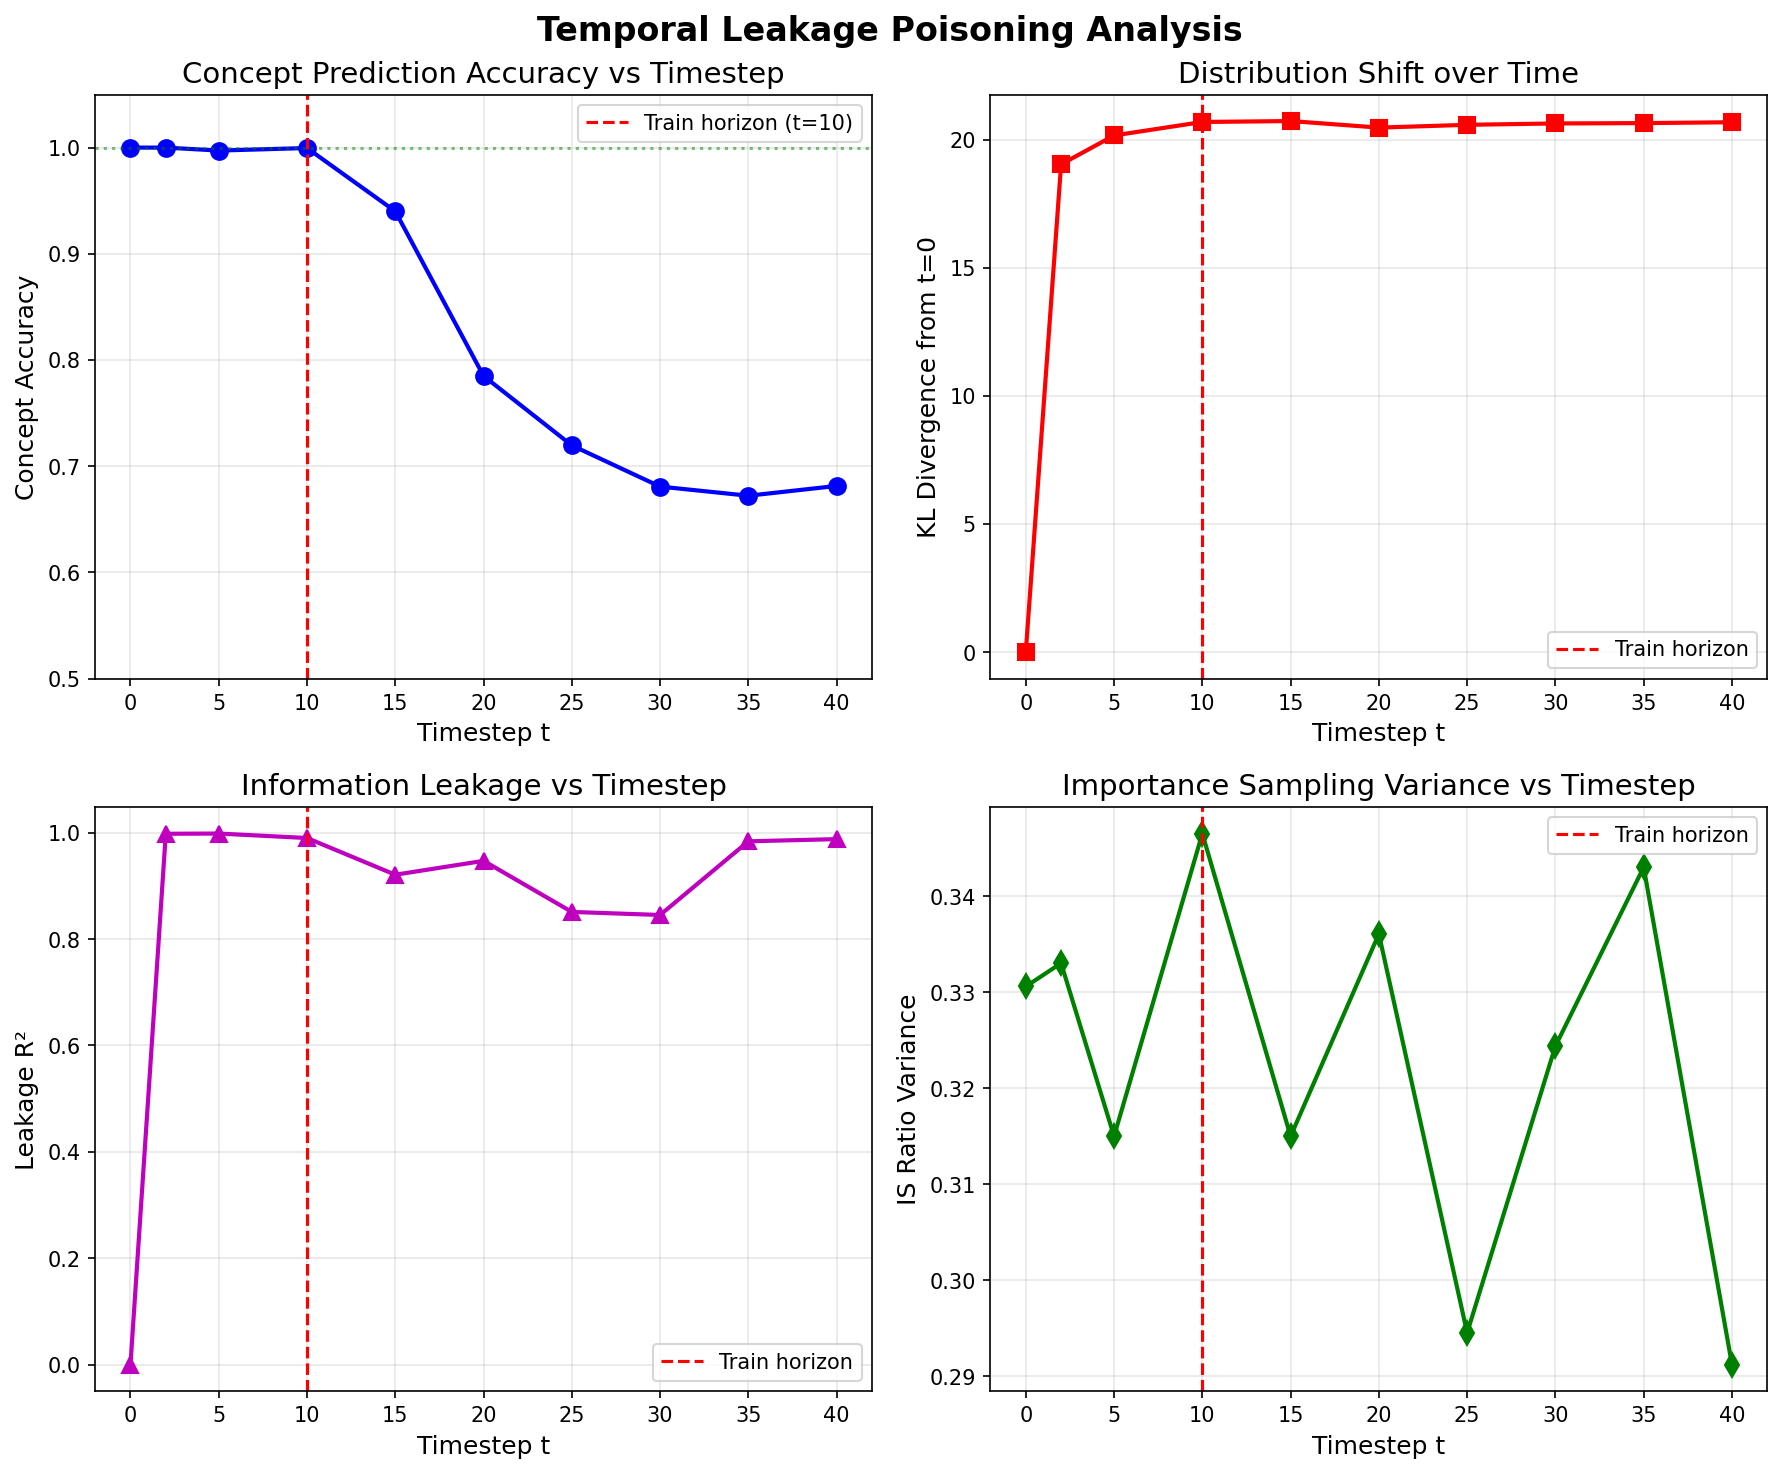
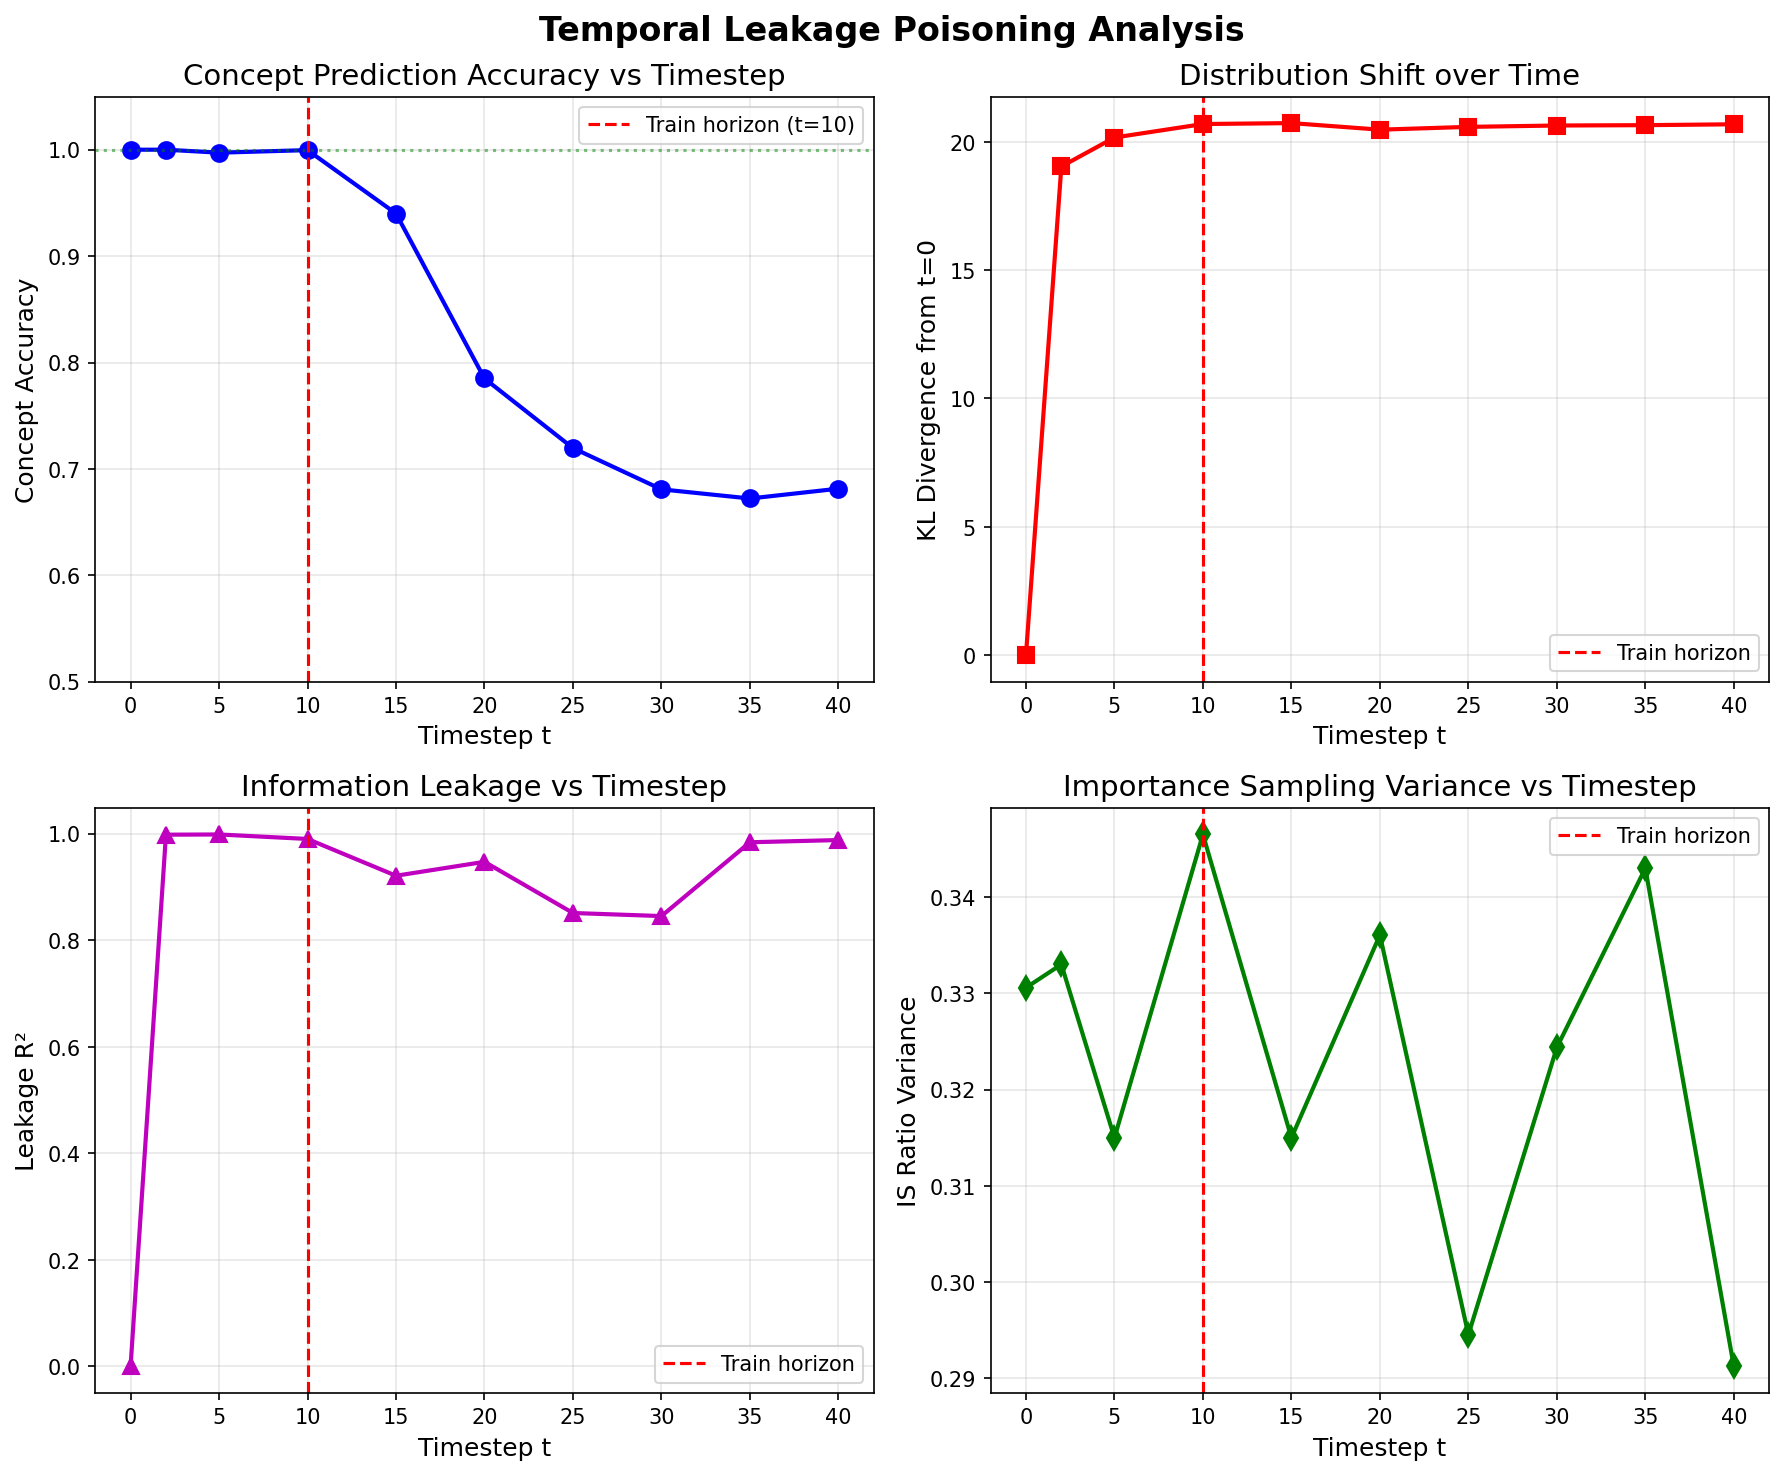
SECOND COMMIT

diff --git a/experiments/plot.py b/experiments/plot.py
@@ -1,0 +1,246 @@
+"""
+Clean Figure Generation for Temporal Leakage Paper
+
+Run: python experiments/plot_figures.py
+"""
+
+import numpy as np
+import matplotlib.pyplot as plt
+import matplotlib.patches as mpatches
+from matplotlib.lines import Line2D
+
+# Use a clean style
+plt.style.use('seaborn-v0_8-whitegrid')
+plt.rcParams['font.family'] = 'serif'
+plt.rcParams['font.size'] = 11
+plt.rcParams['axes.labelsize'] = 12
+plt.rcParams['axes.titlesize'] = 13
+plt.rcParams['legend.fontsize'] = 10
+plt.rcParams['figure.dpi'] = 150
+
+
+def plot_main_figure(results: dict, save_path: str = None):
+    """
+    Clean 2x2 figure for the paper.
+    """
+    fig, axes = plt.subplots(2, 2, figsize=(10, 8))
+    
+    timesteps = results['timesteps']
+    train_horizon = results['train_horizon']
+    
+    # Colors
+    BLUE = '#2E86AB'
+    RED = '#E94F37'
+    PURPLE = '#7B2D8E'
+    GREEN = '#3A7D44'
+    GRAY = '#888888'
+    
+    # =========================================================================
+    # Plot 1: Concept Accuracy (TOP LEFT) - THE KEY RESULT
+    # =========================================================================
+    ax1 = axes[0, 0]
+    
+    # Shade OOD region
+    ax1.axvspan(train_horizon, max(timesteps) + 2, alpha=0.15, color=RED, label='OOD region')
+    
+    # Plot accuracy
+    ax1.plot(timesteps, results['concept_accuracy'], 
+             color=BLUE, linewidth=2.5, marker='o', markersize=7, 
+             markerfacecolor='white', markeredgewidth=2)
+    
+    # Train horizon line
+    ax1.axvline(x=train_horizon, color=RED, linestyle='--', linewidth=1.5, alpha=0.8)
+    
+    # Perfect accuracy reference
+    ax1.axhline(y=1.0, color=GREEN, linestyle=':', linewidth=1.5, alpha=0.6)
+    
+    ax1.set_xlabel('Timestep $t$')
+    ax1.set_ylabel('Concept Accuracy')
+    ax1.set_title('(a) Soft Concept Accuracy Degrades Over Time', fontweight='bold')
+    ax1.set_ylim([0.55, 1.02])
+    ax1.set_xlim([-1, max(timesteps) + 1])
+    
+    # Custom legend
+    legend_elements = [
+        Line2D([0], [0], color=BLUE, linewidth=2, marker='o', markersize=6, 
+               markerfacecolor='white', label='Soft concepts'),
+        Line2D([0], [0], color=RED, linestyle='--', linewidth=1.5, label=f'Train horizon ($t={train_horizon}$)'),
+        mpatches.Patch(facecolor=RED, alpha=0.15, label='Out-of-distribution'),
+    ]
+    ax1.legend(handles=legend_elements, loc='lower left', framealpha=0.9)
+    
+    # =========================================================================
+    # Plot 2: Hard vs Soft Comparison (TOP RIGHT)
+    # =========================================================================
+    ax2 = axes[0, 1]
+    
+    # Shade OOD region
+    ax2.axvspan(train_horizon, max(timesteps) + 2, alpha=0.15, color=RED)
+    
+    # Hard concepts (constant at 1.0)
+    hard_acc = [1.0] * len(timesteps)
+    ax2.plot(timesteps, hard_acc, 
+             color=GREEN, linewidth=2.5, marker='s', markersize=7,
+             markerfacecolor='white', markeredgewidth=2, label='Hard concepts')
+    
+    # Soft concepts
+    ax2.plot(timesteps, results['concept_accuracy'], 
+             color=BLUE, linewidth=2.5, marker='o', markersize=7,
+             markerfacecolor='white', markeredgewidth=2, label='Soft concepts')
+    
+    ax2.axvline(x=train_horizon, color=RED, linestyle='--', linewidth=1.5, alpha=0.8)
+    
+    ax2.set_xlabel('Timestep $t$')
+    ax2.set_ylabel('Concept Accuracy')
+    ax2.set_title('(b) Hard Concepts Remain Stable', fontweight='bold')
+    ax2.set_ylim([0.55, 1.02])
+    ax2.set_xlim([-1, max(timesteps) + 1])
+    ax2.legend(loc='lower left', framealpha=0.9)
+    
+    # =========================================================================
+    # Plot 3: Distribution Shift (BOTTOM LEFT)
+    # =========================================================================
+    ax3 = axes[1, 0]
+    
+    ax3.axvspan(train_horizon, max(timesteps) + 2, alpha=0.15, color=RED)
+    
+    ax3.plot(timesteps, results['distribution_shift'], 
+             color=PURPLE, linewidth=2.5, marker='^', markersize=7,
+             markerfacecolor='white', markeredgewidth=2)
+    
+    ax3.axvline(x=train_horizon, color=RED, linestyle='--', linewidth=1.5, alpha=0.8)
+    
+    ax3.set_xlabel('Timestep $t$')
+    ax3.set_ylabel('KL Divergence from $t=0$')
+    ax3.set_title('(c) State Distribution Shifts Immediately', fontweight='bold')
+    ax3.set_xlim([-1, max(timesteps) + 1])
+    
+    # =========================================================================
+    # Plot 4: Accuracy Drop Magnitude (BOTTOM RIGHT)
+    # =========================================================================
+    ax4 = axes[1, 1]
+    
+    # Compute accuracy drop from t=0
+    acc_drop = [1.0 - acc for acc in results['concept_accuracy']]
+    
+    ax4.axvspan(train_horizon, max(timesteps) + 2, alpha=0.15, color=RED)
+    
+    ax4.bar(timesteps, acc_drop, width=2, color=BLUE, alpha=0.7, edgecolor=BLUE)
+    
+    ax4.axvline(x=train_horizon, color=RED, linestyle='--', linewidth=1.5, alpha=0.8)
+    
+    ax4.set_xlabel('Timestep $t$')
+    ax4.set_ylabel('Accuracy Drop (from 100%)')
+    ax4.set_title('(d) Error Magnitude Grows with Time', fontweight='bold')
+    ax4.set_xlim([-1, max(timesteps) + 1])
+    ax4.set_ylim([0, 0.4])
+    
+    # Format y-axis as percentage
+    ax4.yaxis.set_major_formatter(plt.FuncFormatter(lambda x, _: f'{x*100:.0f}%'))
+    
+    # =========================================================================
+    # Final adjustments
+    # =========================================================================
+    plt.tight_layout()
+    
+    if save_path:
+        plt.savefig(save_path, dpi=300, bbox_inches='tight', facecolor='white')
+        print(f"Figure saved to: {save_path}")
+    
+    plt.show()
+    return fig
+
+
+def plot_single_key_figure(results: dict, save_path: str = None):
+    """
+    Single clean figure showing the main result: hard vs soft concept accuracy.
+    """
+    fig, ax = plt.subplots(figsize=(8, 5))
+    
+    timesteps = results['timesteps']
+    train_horizon = results['train_horizon']
+    
+    # Colors
+    BLUE = '#2E86AB'
+    GREEN = '#3A7D44'
+    RED = '#E94F37'
+    
+    # Shade OOD region
+    ax.axvspan(train_horizon, max(timesteps) + 2, alpha=0.12, color=RED, label='OOD region')
+    
+    # Hard concepts
+    hard_acc = [1.0] * len(timesteps)
+    ax.plot(timesteps, hard_acc, 
+            color=GREEN, linewidth=3, marker='s', markersize=9,
+            markerfacecolor='white', markeredgewidth=2.5, label='Hard concepts (rule-based)')
+    
+    # Soft concepts
+    ax.plot(timesteps, results['concept_accuracy'], 
+            color=BLUE, linewidth=3, marker='o', markersize=9,
+            markerfacecolor='white', markeredgewidth=2.5, label='Soft concepts (neural)')
+    
+    # Train horizon
+    ax.axvline(x=train_horizon, color=RED, linestyle='--', linewidth=2, alpha=0.8)
+    
+    # Annotations
+    ax.annotate('Train horizon', xy=(train_horizon, 0.58), 
+                xytext=(train_horizon + 3, 0.58),
+                fontsize=10, color=RED,
+                arrowprops=dict(arrowstyle='->', color=RED, lw=1.5))
+    
+    ax.annotate('32% drop', xy=(30, 0.68), 
+                xytext=(33, 0.75),
+                fontsize=10, color=BLUE,
+                arrowprops=dict(arrowstyle='->', color=BLUE, lw=1.5))
+    
+    ax.set_xlabel('Timestep $t$', fontsize=13)
+    ax.set_ylabel('Concept Prediction Accuracy', fontsize=13)
+    ax.set_title('Temporal Leakage Poisoning: Soft Concepts Degrade at OOD Timesteps', 
+                 fontsize=14, fontweight='bold')
+    ax.set_ylim([0.55, 1.03])
+    ax.set_xlim([-1, max(timesteps) + 3])
+    
+    ax.legend(loc='lower left', fontsize=11, framealpha=0.95)
+    
+    plt.tight_layout()
+    
+    if save_path:
+        plt.savefig(save_path, dpi=300, bbox_inches='tight', facecolor='white')
+        print(f"Figure saved to: {save_path}")
+    
+    plt.show()
+    return fig
+
+
+if __name__ == "__main__":
+    import os
+    import sys
+    
+    project_root = os.path.dirname(os.path.dirname(os.path.abspath(__file__)))
+    results_dir = os.path.join(project_root, 'results')
+    
+    # Load results
+    results_path = os.path.join(results_dir, 'temporal_results.npy')
+    
+    if os.path.exists(results_path):
+        results = np.load(results_path, allow_pickle=True).item()
+        print("Loaded existing results")
+    else:
+        # Use default values if no results file
+        print("No results file found. Using example data...")
+        results = {
+            'timesteps': [0, 2, 5, 10, 15, 20, 25, 30, 35, 40],
+            'train_horizon': 10,
+            'concept_accuracy': [1.0, 1.0, 0.997, 1.0, 0.94, 0.785, 0.72, 0.68, 0.67, 0.68],
+            'distribution_shift': [0.0, 19.0, 20.2, 20.7, 20.7, 20.5, 20.6, 20.6, 20.6, 20.7],
+            'leakage_r2': [0.0, 0.998, 0.999, 0.99, 0.92, 0.95, 0.85, 0.85, 0.98, 0.99],
+        }
+    
+    # Generate figures
+    print("\nGenerating main 2x2 figure...")
+    plot_main_figure(results, save_path=os.path.join(results_dir, 'figure_main.png'))
+    
+    print("\nGenerating single key figure...")
+    plot_single_key_figure(results, save_path=os.path.join(results_dir, 'figure_key.png'))
+    
+    print("\nDone!")